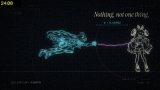
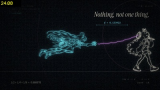
v2 round 7 rendered: world_execute_me_Ralmia_v2_round7.mp4

Changed region(s): [[0.5938, 0.2667, 1.0, 0.8]]

diff --git a/HANDOFF.md b/HANDOFF.md
@@ -73,7 +73,7 @@
 - 修错：黑板 `Σ ½ⁿ` 缺字（`chalk()` 改走 `mtext`，写成 `½^{n}`）；192 秒 LOVE 挪到左下角。
 - 间奏：她的窗口占比 22% → 45% → 70% → 92%，用黄金比均匀分布；她的窗口加兰紫边框（`scenes6.cwin`）。
 - 舞台：SATISFACTION 起中间巨屏切成她的脸部特写（大屏直播，`scenes4`）。尾奏开头一圈窗口有一半是她（`scenes7.ESC_POOL`）。撕纸后裂口外的声波加粗加亮，光改暖白。
-- L17（`gen/README_round7.md`）已到并接入：A/B 每步交替就是走路；弦从她身后的音箱圆盘拖出（`L_MIC = (859, 205)`），距离量到洛菈米亚指尖高度处她头发的后缘（`L_BACK = 640`）。成片 `ClaudeVer/world_execute_me_Ralmia_v2_round7.mp4`。
+- L17（`gen/README_round7.md`）已到并接入：A/B 每步交替就是走路；弦从她身后的音箱圆盘拖出（`L_MIC = (859, 205)`），距离量到洛菈米亚指尖高度处她头发的后缘（`L_BACK = 640`）。成片 `ClaudeVer/world_execute_me_Ralmia_v2_round7.mp4`（336 个硬切 / 16.4 毫秒 / 57%，无冻结）。
 - 成片（L17 到之前的占位版）：`ClaudeVer/world_execute_me_Ralmia_v2_round6.mp4`。自查：337 个硬切，偏差中位数 16.4 毫秒，57% 在 35 毫秒内，没有冻结。
 
 **第一轮自评里留下的弱点**：舞台一镜仍是缓慢推镜，里榭娜只占画面三分之一；她走进光里时被光洗白（和 v1 研究员同样的处理）；trance 的兰紫圆环偏淡；荧光棒是画上去的，只能整片发光，不能摆动。
